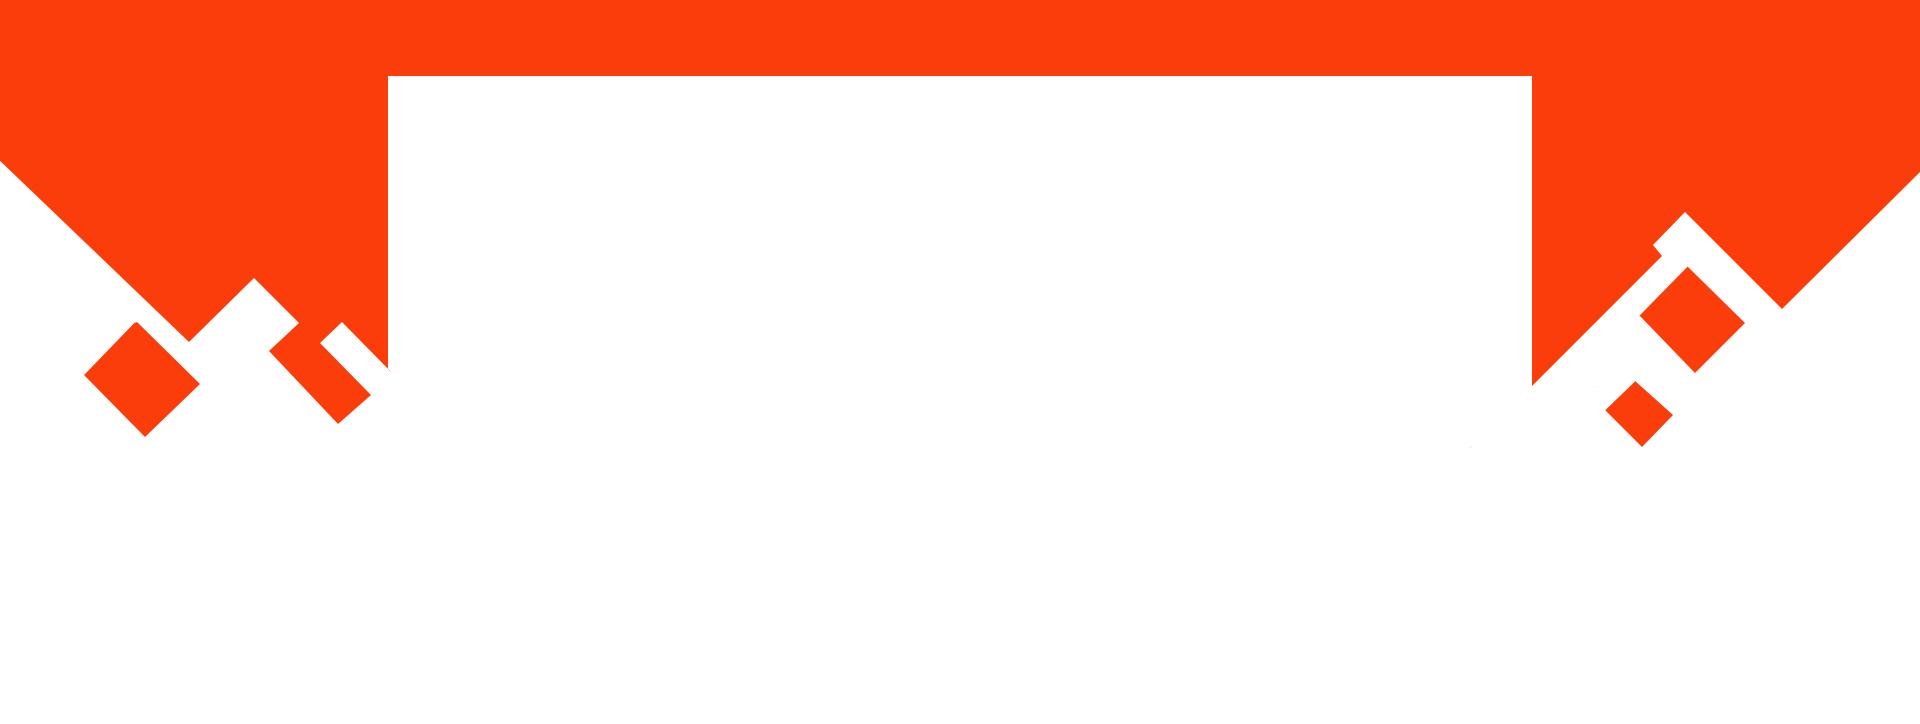
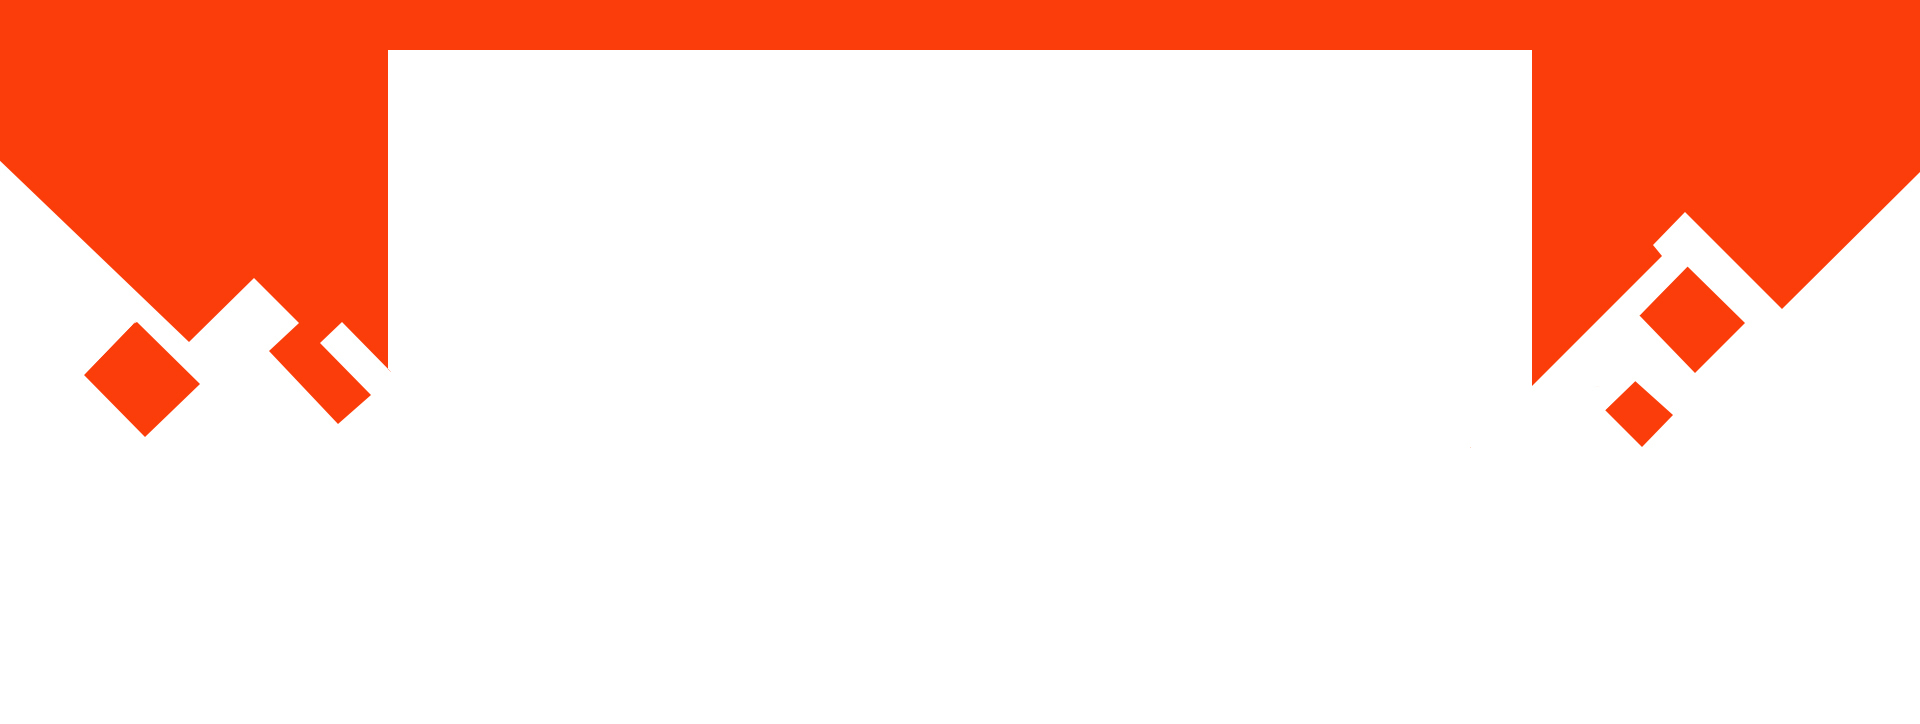
remove the cashier add customer system todo:register

Changed region(s): [[0.1875, 0.0608, 0.8125, 0.1215]]

diff --git a/resources/views/index.blade.php b/resources/views/index.blade.php
@@ -301,7 +301,7 @@
                     </h2>
 
                     <ul class="col-md-3">
-                        <li><strong>北京快3</strong> 第<em>{{$recentArray['BEIJIN']->proName}}</em>期开奖号码<br>
+                        <li><strong>北京快3</strong> 第<em>{{$recentArray['BEIJIN']->proName}}</em>期开奖号码<br><br>
                             开奖时间：{{$recentArray['BEIJIN']->created_at}}
                             <br>
                             <a href="/lotteryIndex?lottery_type=beijin">立即购买</a>

diff --git a/resources/views/master.blade.php b/resources/views/master.blade.php
@@ -79,7 +79,7 @@
     </div>
 </div>
 <div class="top_main_back"></div>
-<div class="container header" style="margin-top: 70px" id="indexHeader">
+<div class="container header" style="margin-top: 50px" id="indexHeader">
     <div class="logoWrap">
         <h1 class="logo"><a href="#" title="中国快三网" class="logoLink"><img src="/css/m_logo.png" alt="中国快三网"></a></h1>
     </div>
